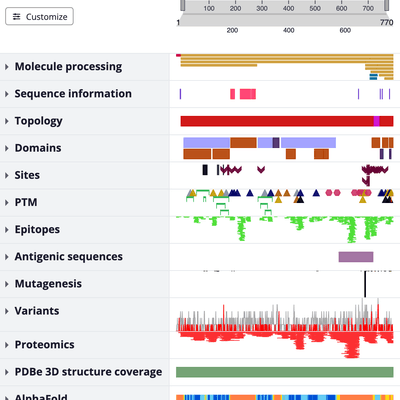
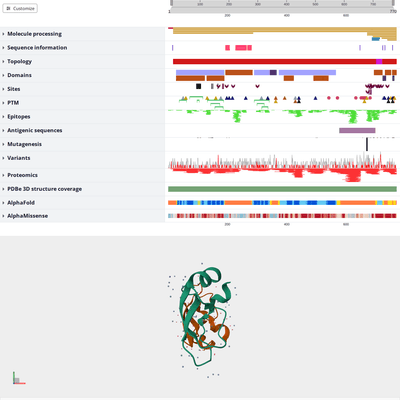
Show the whole viewer, 3D model included, in the home hero
The hero showed the top fourteen track rows and stopped there, which left the
3D structure pane — a substantial part of what ProtVista does — out of the one
image most visitors see.

It now shows the full stack. The viewer's height is fixed whatever its width, so
the viewport is tuned so the square crop lands just below the 3D canvas: the
model is in, the structure datatable under it is out, being unreadable at 400px
and pure clutter there.

This costs drift sensitivity for this one image. Downscaling ~1189px to 400
resamples Mol*'s per-run anti-aliasing across a much smaller picture, measured
at 1.7-2.1% between runs, so its tolerance is 3%. Every other shot stays
byte-exact.

diff --git a/docs/src/content/docs/index.md b/docs/src/content/docs/index.md
@@ -5,7 +5,7 @@ template: splash
 hero:
   tagline: Visualize protein sequence features within the browser. Use UniProt data or bring your own. Use standalone or embed within your own website. Configuration driven with minimal coding.
   image:
-    alt: A ProtVista viewer showing many rows of protein annotation — molecule processing, sequence information, topology, domains, sites and modifications — drawn as coloured tracks aligned to the amino-acid sequence of P05067.
+    alt: The ProtVista viewer showing many rows of protein annotation — domains, sites, modifications, variants and structure coverage — drawn as coloured tracks along the sequence of P05067, with a three-dimensional ribbon model of the protein beneath them.
     file: ../../assets/screenshots/home-hero.png
   actions:
     - text: Learn more
